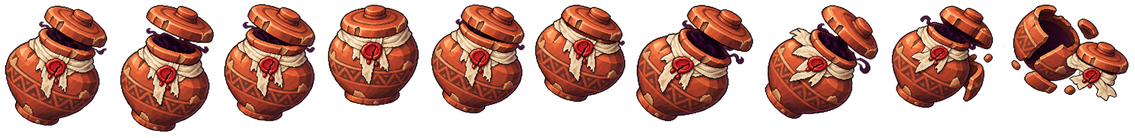
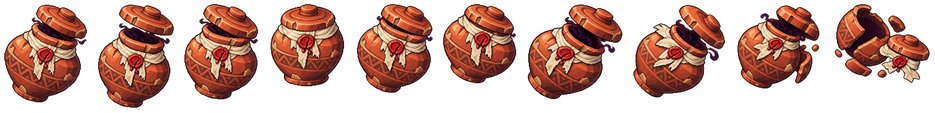
봉인 항아리 더 작게(캐릭터 키 0.85배)
Claude-Session: https://claude.ai/code/session_01VEprA6JeTcQVX6tKD4oAcT

Changed region(s): [[0.0, 0.0265, 0.9925, 0.9558], [0.9925, 0.4248, 1.0, 0.4513], [0.3102, 0.7434, 0.3412, 0.7699]]

diff --git a/tools/art/desert-mob-pack.py b/tools/art/desert-mob-pack.py
@@ -18,7 +18,7 @@ VISIBLE, SMALL, PAD = 256, 125, 2
 # body height in characters' heights (the game draws a character 31.2 px × zoom high). 사용자 10-19 "몹 크기 다 늘리셈,
 # 방패병은 더 커야, 4대 수문장은 ㅈㄴ 커야": 제안 값(화면 비교 docs/consult/desert/mobs/hit-sheet.png로 검수)
 HEIGHT_K = {
-    'desert_sealed_jar': 1.05, 'desert_leather_shield': 1.5, 'desert_sealed_shield': 1.6, 'desert_walking_stela': 1.4,
+    'desert_sealed_jar': 0.85, 'desert_leather_shield': 1.5, 'desert_sealed_shield': 1.6, 'desert_walking_stela': 1.4,
     'desert_sun_mirror': 1.3, 'desert_balance_sentinel': 1.3, 'desert_mask_priest_mantle': 1.45, 'desert_mask_priest_shroud': 1.45,
     'desert_royal_mask_warden': 4.2, 'desert_temple_warden': 4.2, 'desert_throne_warden': 4.2, 'desert_broken_tomb_warden': 4.2,
 }

diff --git a/docs/DESERT-COMBAT-SURVEY.md b/docs/DESERT-COMBAT-SURVEY.md
@@ -112,7 +112,7 @@ ST가 떠 있고 확장이 설치된 상태에서 `export NODE_PATH=/opt/node-to
   - 종마다 대기 그림 한 장에서 눈으로 잰다(`tools/art/desert-mob-pack.py` HIT). 무기·매달린 추·흩날리는 천·섬광·투명 여백은 뺐다.
   - 팩 도구가 캐릭터 키 단위로 바꿔 `data/sprites.json enemies.<종>.hit`에 쓴다. 한 종에 한 값이라 프레임마다 흔들리지 않는다. 두아트 몹은 값이 없어 예전과 같다.
   - 일반 6종: 몸통 기준. 방패병 2종: 방패 앞. 수문장 4종: 주먹 앞(큰 몸 안전 착지).
-- **크기:** 항아리 1.05(사용자: 더 작게), 가죽 방패병 1.5, 봉인 방패병 1.6, 비석 1.4, 거울·천칭 1.3, 사제 둘 1.45, 수문장 넷 4.2(사용자: 1.5배 더). 단위는 캐릭터 키 배.
+- **크기:** 항아리 0.85(사용자: 더 작게, 두 번), 가죽 방패병 1.5, 봉인 방패병 1.6, 비석 1.4, 거울·천칭 1.3, 사제 둘 1.45, 수문장 넷 4.2(사용자: 1.5배 더). 단위는 캐릭터 키 배.
 - **아틀라스(사용자 10-19):**
   - 종마다 따로 묶는다(10모션). 4096×4096을 넘으면 그 종 안에서 여러 장으로 나누고, 크기를 줄여 맞추지 않는다.
   - 프레임 값은 `[x, y, w, h, 기준x, 기준y, 장]`이다.
